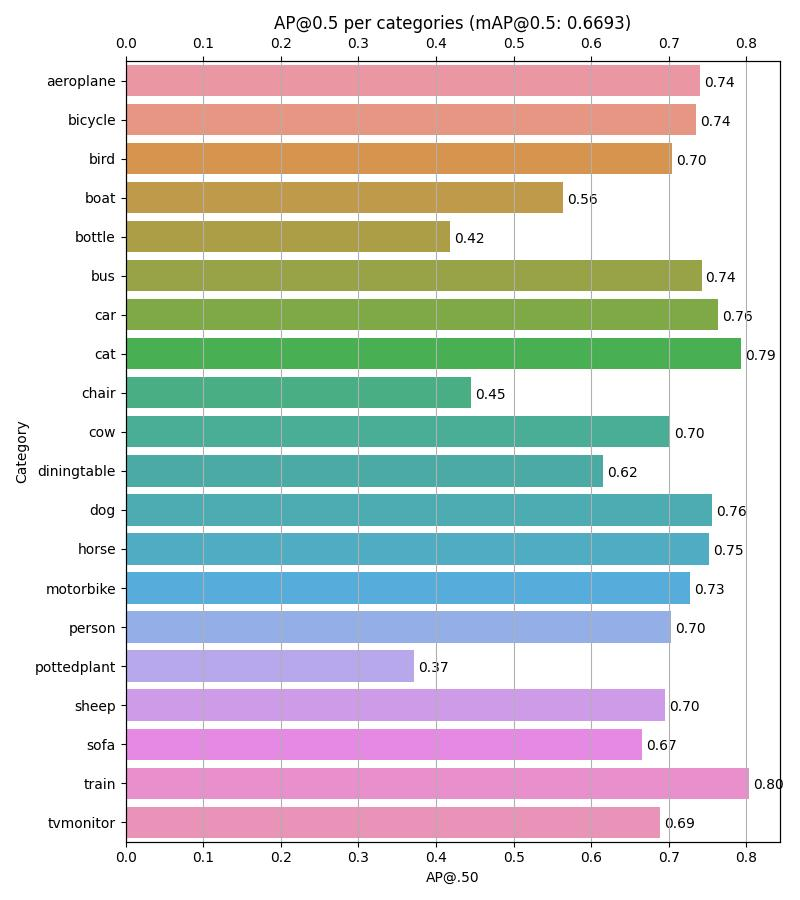
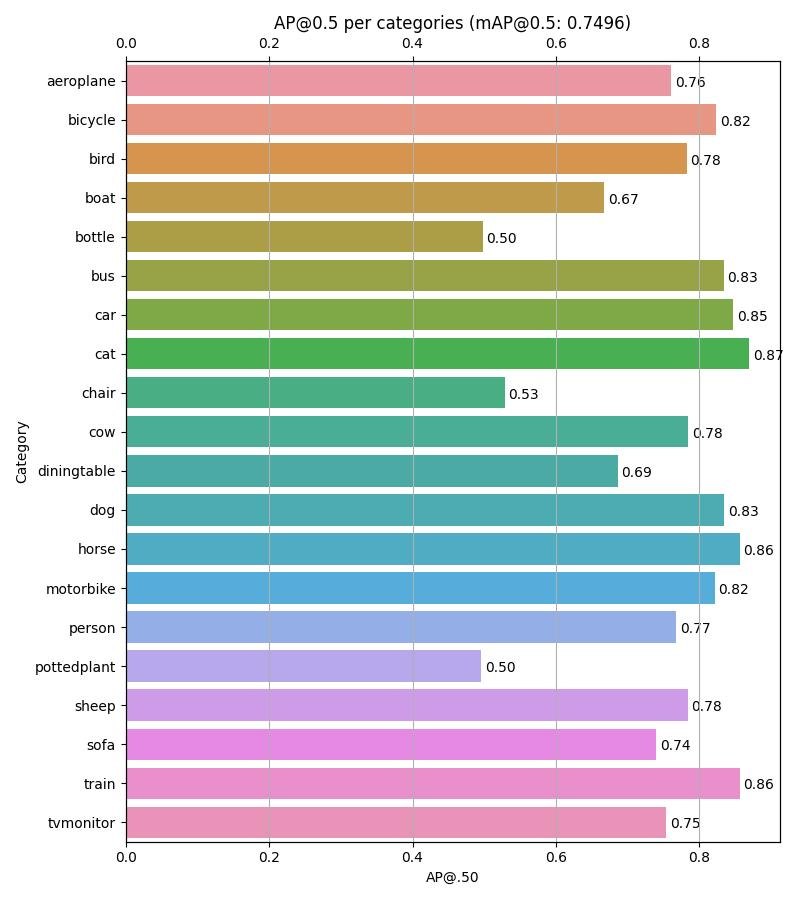
YOLOv2 implementation done

diff --git a/train.py b/train.py
@@ -171,7 +171,7 @@ def main():
 
         if epoch % 10 == 0:
             val_loader = tqdm(val_loader, desc=f"[VAL:{epoch:03d}/{args.num_epochs:03d}]", ncols=115, leave=False)
-            mAP_dict, eval_text = validate(args=args, dataloader=val_loader, model=model, evaluator=evaluator, epoch=epoch, save_result=True)
+            mAP_dict, eval_text = validate(args=args, dataloader=val_loader, model=model, evaluator=evaluator, epoch=epoch)
             ap50 = mAP_dict["all"]["mAP_50"]
 
             if ap50 > best_score:

diff --git a/README.md b/README.md
@@ -23,7 +23,7 @@ This is a repository for PyTorch implementation of YOLOv2 following the original
 | :---: | :---: | :---: | :---: | :---: | :---: | :---: | :---: | :---: | 
 | YOLOv2<br><sup>(<u>Paper:page_with_curl:</u>)</br> | PASCAL-VOC | trainval2007+2012 | test2007 | 416 | 51.00 | 76.8 | *not reported* | 34.90 |
 | YOLOv2-416<br><sup>(<u>Our:star:</u>)</br> | PASCAL-VOC | trainval2007+2012 | test2007 | 416 | - | - | 50.67 | 29.49 |
-| YOLOv2-multi scale<br><sup>(<u>Our:star:</u>)</br> | PASCAL-VOC | trainval2007+2012 | test2007 | 416 | - | - | 50.67 | 29.49 |
+| YOLOv2-multi scale<br><sup>(<u>Our:star:</u>)</br> | PASCAL-VOC | trainval2007+2012 | test2007 | 416 | 48.5 | 75.2 | 50.67 | 29.49 |
 
 
 <div align="center">
